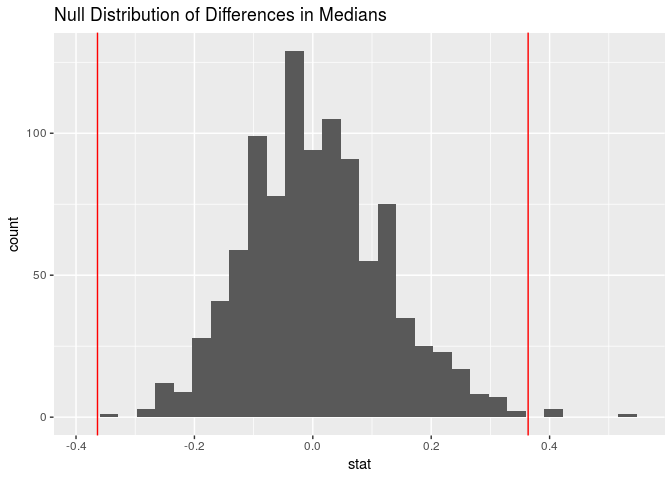
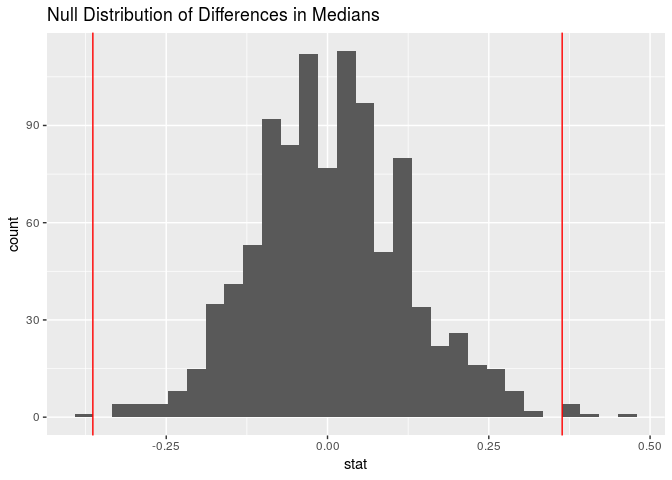
added parts to the final md

diff --git a/project/project.md b/project/project.md
@@ -83,21 +83,96 @@ movie was profitable or not, based on the profitiability ratio. If the
 ratio was greater than 1, it was considered profitable. It will simply
 say “yes” for profitable, and “no” for non-profitable.
 
+To find the 95% confidence interval of pratio:
+
+    ## # A tibble: 1 x 2
+    ##   lower uppper
+    ##   <dbl>  <dbl>
+    ## 1  2.20   2.39
+
+Insert narrative about confidence interval:
+
 ### Making a Categorical “spoken languages” Variable
 
 Here, we will be creating a new vategorical variable, that signifies if
 the only language spoken in the film is english, or not. If the only
 spoken language is english, the value will be “yes,” if there are other
-languages spoken or english is not used, the value will be
-    “no.”
+languages spoken or english is not used, the value will be “no.”
 
 ### Splitting date variable
 
 ### Genre trends
 
-![](project_files/figure-gfm/genre-trends-1.png)<!-- -->
+We wanted to explore how genre affects certain trends within the
+dataset. Thus we created a few genre related variables that we thought
+would yield the most effect.
+
+    ## # A tibble: 2 x 2
+    ##   horror `median(budget)`
+    ##   <chr>             <dbl>
+    ## 1 no             30000000
+    ## 2 yes            14500000
+
+We chose the horror genre since we found that horror movies
+significantly have lower budgets, to see if horror movies then have
+higher pratios since they have less money to make to “break even” and
+make a profit. Also, some of the most profitable movies have been horror
+movies, such as Paranormal Activity, that had a very low budget.
+
+We then tested the question: Does this data provide convincing evidence
+of a difference in median pratios for horror vs non horror movies?
+
+Null Hypothesis: The movie being a horror movie does cause a difference
+in median pratio.
+
+    ## [1] 0.5147204
+
+![](project_files/figure-gfm/unnamed-chunk-4-1.png)<!-- -->
+
+    ## # A tibble: 1 x 1
+    ##   pvalue
+    ##    <dbl>
+    ## 1  0.004
+
+    ## # A tibble: 1 x 2
+    ##    lower upper
+    ##    <dbl> <dbl>
+    ## 1 -0.297 0.365
+
+We found the p-value to be 0, thus it proved to be significantly
+significant, which we then could accept the null hypothesis that the
+movie being of a horror genre does affect median pratio.
+
+Add narrative about confidence interval.
+
+![](project_files/figure-gfm/unnamed-chunk-5-1.png)<!-- -->
 
 ![](project_files/figure-gfm/horror-1.png)<!-- -->
+
+Add narrative about why we chose action:
+
+    ## # A tibble: 2 x 2
+    ##   action `median(budget)`
+    ##   <chr>             <dbl>
+    ## 1 no             21000000
+    ## 2 yes            50000000
+
+    ## [1] -0.2232571
+
+![](project_files/figure-gfm/unnamed-chunk-7-1.png)<!-- -->
+
+    ## # A tibble: 1 x 1
+    ##   pvalue
+    ##    <dbl>
+    ## 1  0.072
+
+    ## # A tibble: 1 x 2
+    ##    lower upper
+    ##    <dbl> <dbl>
+    ## 1 -0.200 0.241
+
+Add narrative about p-value and confidence
+    intervals:
 
 ![](project_files/figure-gfm/action-1.png)<!-- -->
 
@@ -116,7 +191,7 @@ languages spoken or english is not used, the value will be
     ## # A tibble: 1 x 1
     ##   pvalue
     ##    <dbl>
-    ## 1  0.008
+    ## 1  0.012
 
 ### Making a variable for holiday releases
 
@@ -132,6 +207,27 @@ parent) from
 <https://en.wikipedia.org/wiki/Major_film_studio#Present_2>).
 
 ![](project_files/figure-gfm/bar-graph-production-companies-1.png)<!-- -->![](project_files/figure-gfm/bar-graph-production-companies-2.png)<!-- -->
+
+Simulating if production companies have cause a difference in median
+pratio:
+
+Add what the null hypothesis is:
+
+    ## [1] 0.6328664
+
+![](project_files/figure-gfm/unnamed-chunk-9-1.png)<!-- -->
+
+    ## # A tibble: 1 x 1
+    ##   pvalue
+    ##    <dbl>
+    ## 1      2
+
+    ## # A tibble: 1 x 2
+    ##    lower upper
+    ##    <dbl> <dbl>
+    ## 1 -0.184 0.208
+
+Add narrative about confidence interval and p-value:
 
 ### Making a variable for tagline length
 
